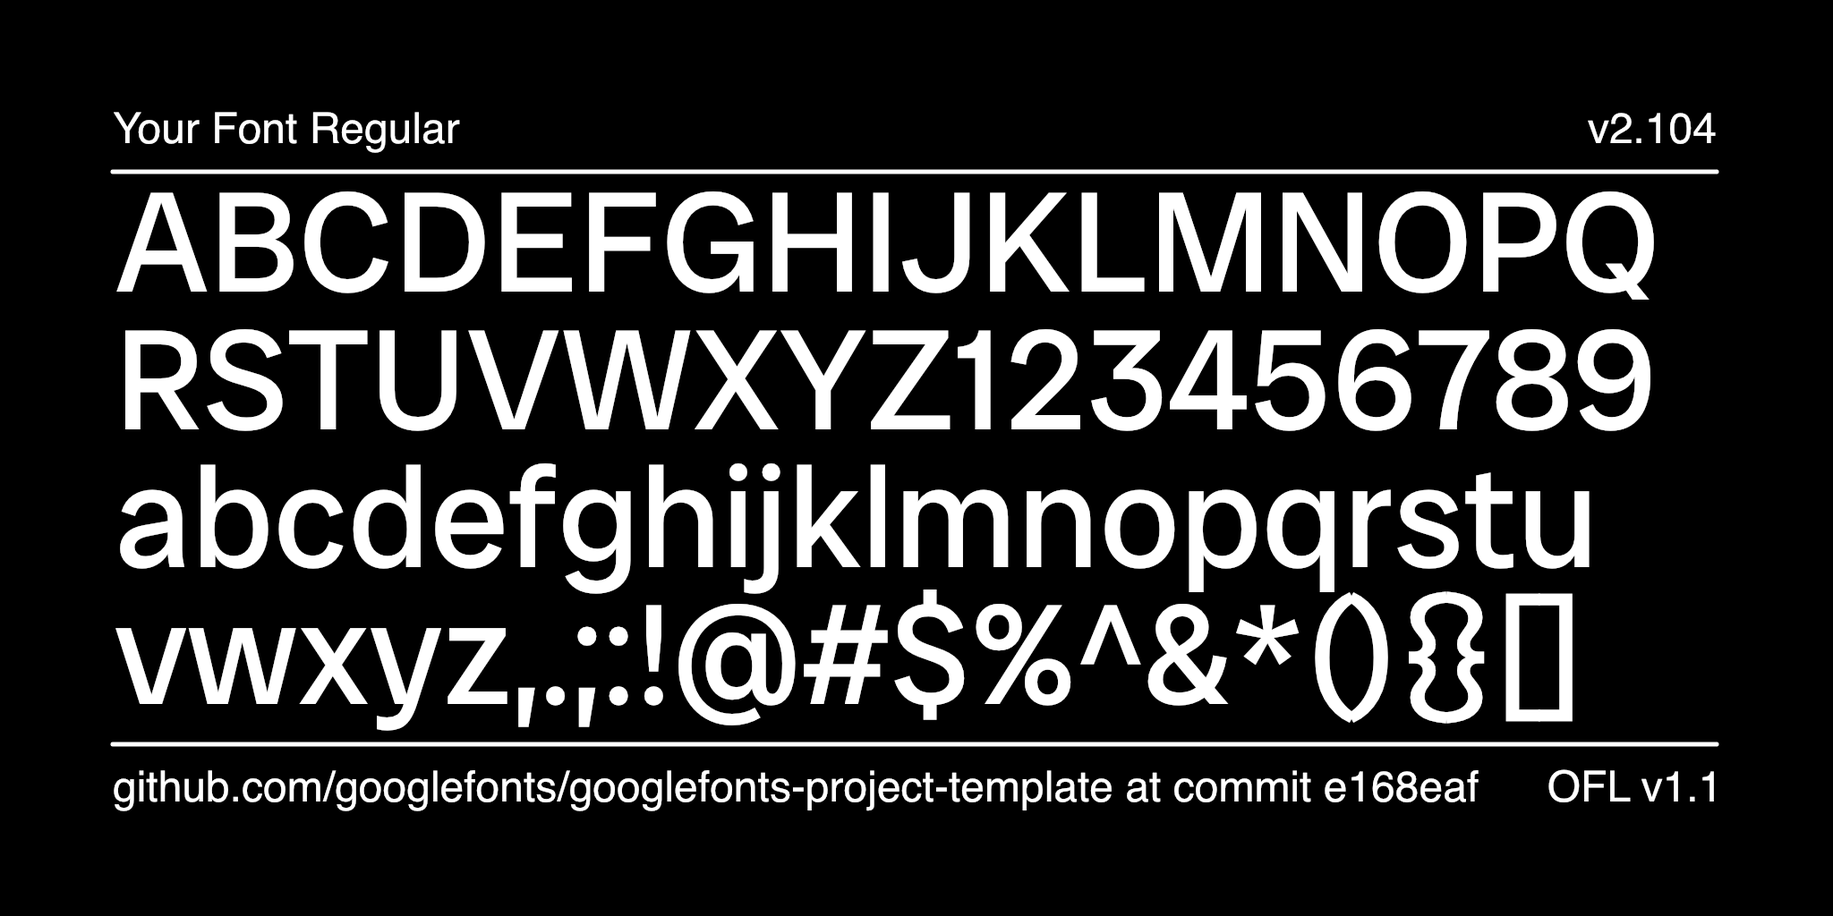
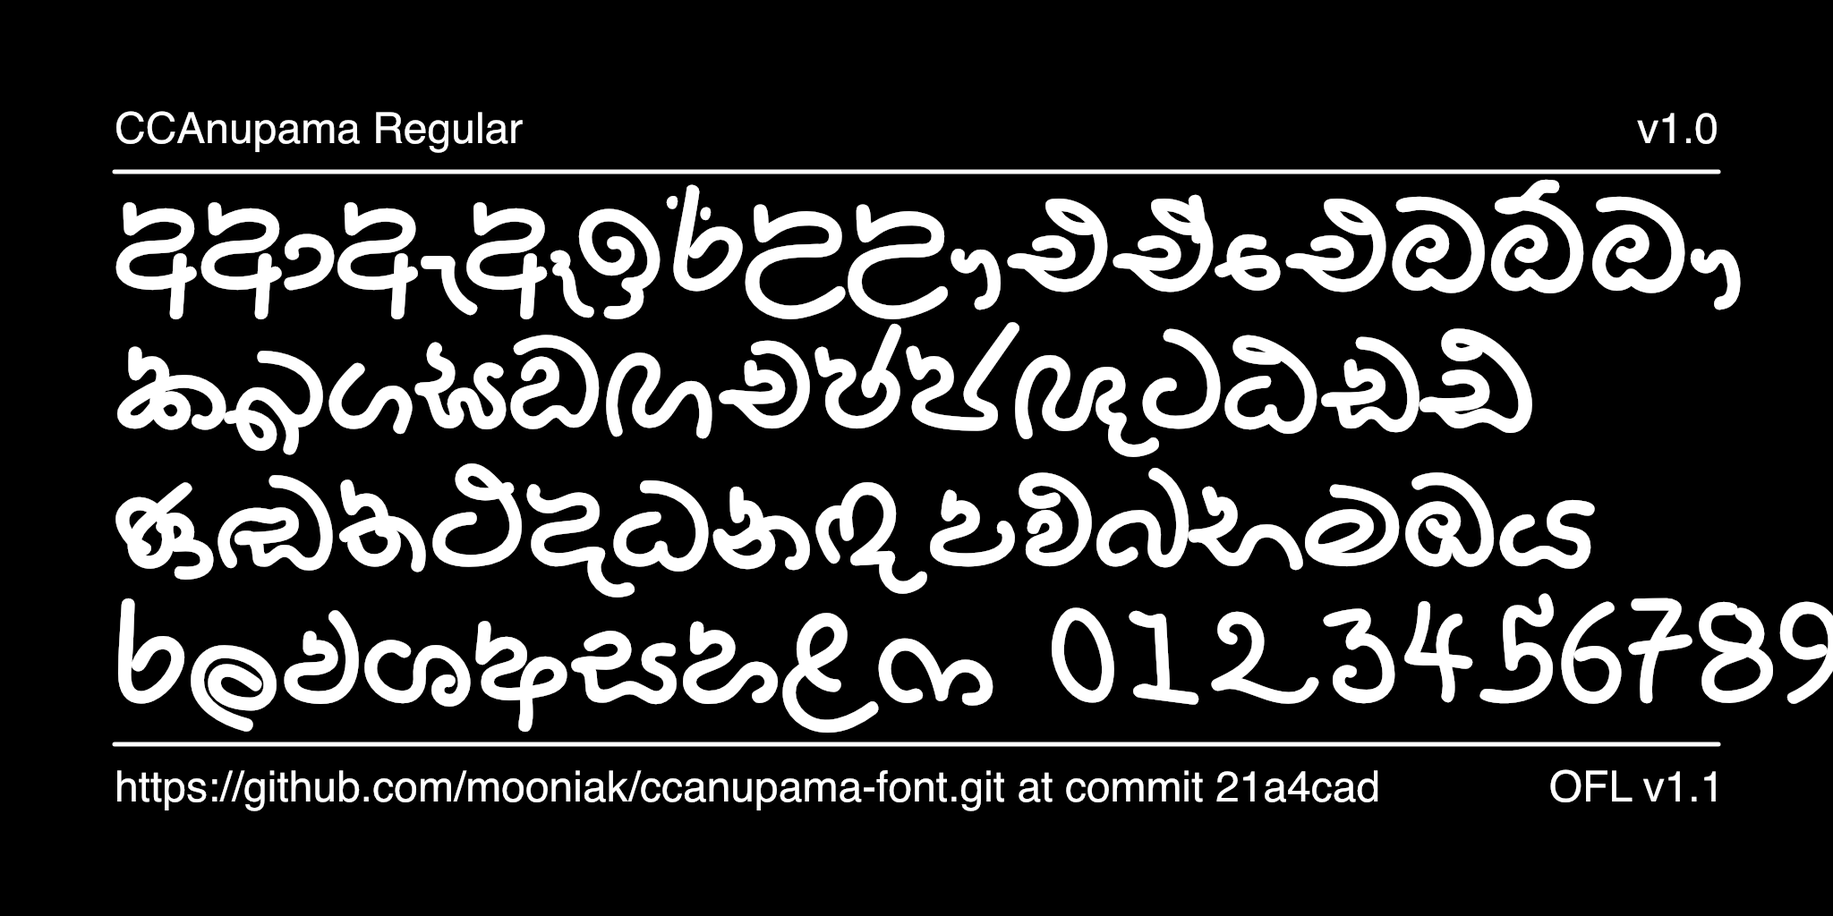
README, credits, article and specimens
README with badges, the ASCII-to-Unicode port notes, font data, coverage and features read off the built font; ARTICLE, AUTHORS, CONTRIBUTORS, OFL header (design year); specimen images rendered from a local --channel release build.

diff --git a/documentation/ARTICLE.en_us.html b/documentation/ARTICLE.en_us.html
@@ -1,12 +1,17 @@
 <p>
-    Please add a text describing the font here, 100 chracters or more, but no more than 500 words.
-    See https://googlefonts.github.io/gf-guide/article.html for further reference.
-    Please make sure that HTML characters are properly encoded. ('&' becomes &amp; etc.)
-    If unsure, use https://www.freeformatter.com/html-escape.html for formatting. (Use "Escape HTML").
+    CCAnupama is a rounded, monoline, handwritten Sinhala display typeface by Damith Welikala (Ceylon Calligraphy), made in 2020–2021.
+    Its thick, even pen line and loose, friendly letters suit posters, packaging, signage and titles.
 </p>
 <p>
-    Could be several paragraphs, also.
+    The font was first made in the FM Abhaya ASCII layout, the encoding most Sinhala fonts used
+    before Unicode: Sinhala letters were drawn on Latin keys, so text only looked like Sinhala in
+    that one font. In 2026 Mooniak ported it to Unicode. Every glyph now sits on its Sinhala
+    code point or is reached through OpenType rules, the vowel signs that were typed as separate
+    keys are composed, and the signs are positioned exactly where the original drew them.
 </p>
 <p>
-    To contribute, see <a href="https://github.com/youruseraccount/yourrepository">github.com/youruseraccount/yourrepository</a>.
+    The font covers the Sinhala letters in common use with their vowel signs, the repaya, rakaransaya and yansaya, ක්&zwj;ෂ and ද්&zwj;ර, a set of consonant + vowel-sign ligatures, plus digits and basic punctuation, in a single Regular weight.
+</p>
+<p>
+    To contribute, see <a href="https://github.com/mooniak/ccanupama-font">github.com/mooniak/ccanupama-font</a>.
 </p>

diff --git a/documentation/image2.py b/documentation/image2.py
@@ -1,7 +1,7 @@
 # This script is meant to be run from the root level
 # of your font's git repository. For example, from a Unix terminal:
-# $ git clone my-font
-# $ cd my-font
+# $ git clone https://github.com/mooniak/ccanupama-font.git
+# $ cd ccanupama-font
 # $ python3 documentation/image1.py --output documentation/image1.png
 
 # Import moduels from external python packages: https://pypi.org/
@@ -13,18 +13,19 @@ from fontTools.misc.fixedTools import floatToFixedToStr
 import subprocess
 import sys
 import argparse
+import glob
 
 # Constants, these are the main "settings" for the image
 WIDTH, HEIGHT, MARGIN, FRAMES = 2048, 1024, 128, 1
-FONT_PATH = "fonts/variable/MyFont[wght].ttf"
+FONT_PATH = (sorted(glob.glob("fonts/ttf/*.ttf")) or sorted(glob.glob("fonts/variable/*.ttf")))[0]
 FONT_LICENSE = "OFL v1.1"
 AUXILIARY_FONT = "Helvetica"
 AUXILIARY_FONT_SIZE = 48
 
-LINE_ONE = "ABCDEFGHIJKLMNOPQ"
-LINE_TWO = "RSTUVWXYZ123456789"
-LINE_THREE = "abcdefghijklmnopqrstu"
-LINE_FOUR = "vwxyz,.;:!@#$%^&*(){}[]"
+LINE_ONE = "අආඇඈඉඊඋඌඑඒඓඔඕඖ"
+LINE_TWO = "කඛගඝඞඟචඡජඥටඨඩඪ"
+LINE_THREE = "ණඬතථදධනඳපඵබභමඹය"
+LINE_FOUR = "රලවශෂසහළෆ 0123456789"
 BIG_TEXT_FONT_SIZE = 160
 BIG_TEXT_SIDE_MARGIN = MARGIN * 1
 BIG_TEXT_BOTTOM_MARGIN = MARGIN * 5.45

diff --git a/documentation/image1.py b/documentation/image1.py
@@ -1,7 +1,7 @@
 # This script is meant to be run from the root level
 # of your font's git repository. For example, from a Unix terminal:
-# $ git clone my-font
-# $ cd my-font
+# $ git clone https://github.com/mooniak/ccanupama-font.git
+# $ cd ccanupama-font
 # $ python3 documentation/image1.py --output documentation/image1.png
 
 # Import moduels from external python packages: https://pypi.org/
@@ -13,18 +13,19 @@ from fontTools.misc.fixedTools import floatToFixedToStr
 import subprocess
 import sys
 import argparse
+import glob
 
 # Constants, these are the main "settings" for the image
 WIDTH, HEIGHT, MARGIN, FRAMES = 2048, 1024, 128, 1
-FONT_PATH = "fonts/variable/MyFont[wght].ttf"
+FONT_PATH = (sorted(glob.glob("fonts/ttf/*.ttf")) or sorted(glob.glob("fonts/variable/*.ttf")))[0]
 FONT_LICENSE = "OFL v1.1"
 AUXILIARY_FONT = "Helvetica"
 AUXILIARY_FONT_SIZE = 48
 
-BIG_TEXT = "AaBb"
-BIG_TEXT_FONT_SIZE = 730
+BIG_TEXT = "අනුපමා"
+BIG_TEXT_FONT_SIZE = 540
 BIG_TEXT_SIDE_MARGIN = MARGIN * 1
-BIG_TEXT_BOTTOM_MARGIN = MARGIN * 2
+BIG_TEXT_BOTTOM_MARGIN = MARGIN * 2.5
 
 GRID_VIEW = False # Toggle this for a grid overlay
 

diff --git a/README.md b/README.md
@@ -1,102 +1,203 @@
-## Setting up your font
+CCAnupama
+=========
 
-### New repositories
+[![Build][badge-build]][link-build]
+[![Fontspector QA][badge-qa]][link-qa]
+[![Release][badge-release]][link-release]
+[![License: OFL 1.1][badge-license]][link-license]
 
-1. Hit the green button above ("Use this template") to create your own repository.
+[badge-build]: https://github.com/mooniak/ccanupama-font/actions/workflows/build.yaml/badge.svg?branch=dev
+[badge-qa]: https://img.shields.io/badge/dynamic/json?url=https%3A%2F%2Fsrc.mooniak.com%2Fccanupama-font%2Fbuild.json&query=%24.qa.pass_rate&suffix=%25&label=fontspector%20QA%20(dev%20build)&color=informational
+[badge-release]: https://img.shields.io/github/v/release/mooniak/ccanupama-font?label=release
+[badge-license]: https://img.shields.io/badge/license-OFL--1.1-green
+[link-build]: https://github.com/mooniak/ccanupama-font/actions/workflows/build.yaml
+[link-qa]: https://src.mooniak.com/ccanupama-font/reports/fontspector/fontspector-report.html
+[link-release]: https://github.com/mooniak/ccanupama-font/releases
+[link-license]: OFL.txt
 
-2. Clone the repository, and replace the font sources in the `sources` directory with your own font sources. These sources may be either in Glyphs format or UFO/Designspace formats.\
-   \
-   Unlike many open source distributors, Google Fonts is **curated**. Fonts shipped to the platform have to match the [Google Fonts Specifications](https://github.com/googlefonts/gf-docs/tree/main/Spec). Please read them carefully.\
-   \
-   _(The template ships a tiny generic placeholder — "My Font", a 2-master Weight variable font with a handful of blank-slate glyphs (`.notdef`, space, H, I, l, O) as `sources/MyFont.designspace` + UFOs. It exists only so the build pipeline works out of the box; replace it with your own sources.)_
+CCAnupama is a rounded, monoline, handwritten Sinhala display typeface by Damith Welikala (Ceylon Calligraphy), made in 2020–2021.
+Its thick, even pen line and loose, friendly letters suit posters, packaging, signage and titles. It is published by [Mooniak](https://mooniak.com/) as a free font under the SIL Open
+Font License, in a single Regular weight.
 
-3. Then reference the sources in the file `sources/config.yaml`, as well as making any other changes you would like to make based on the instructions in the [Google Fonts Builder documentation](https://github.com/googlefonts/gftools/blob/main/Lib/gftools/builder/__init__.py).
+![CCAnupama specimen](documentation/image1.png)
+![CCAnupama character set](documentation/image2.png)
 
-4. Add yourself to the `AUTHORS.txt` and `CONTRIBUTORS.txt` files.
+## From an ASCII font to Unicode
 
-5. Fill out `documentation/ARTICLE.en_us.html` with a description of your font.
+CCAnupama was first made in the **FM Abhaya ASCII layout**, the encoding most Sinhala fonts used
+before Unicode. Sinhala letters were drawn on Latin keys (`l` was ක, `s` the is-pilla drawn to
+overprint the letter before it, `f` the kombuva typed *before* the letter, `á` a precomposed ටි).
+Text typed that way only reads as Sinhala in that one font. Search, copy-paste, spell-checking
+and screen readers all see Latin gibberish.
 
-6. Rewrite this Readme file according to the recommendations in the [Google Fonts Guide](https://googlefonts.github.io/gf-guide/readmefile.html).
+On 26 November 2026 the source was ported to Unicode with Mooniak's
+[`ascii_to_unicode.py`](https://github.com/mooniak/mooniak-font-tools/tree/main/tools/font-migration):
 
-7. Add and commit these files to git.
+- every glyph got its Sinhala code point or a [LankaGlyphset](https://github.com/mooniak/lanka-glyphsets)
+  name reached by OpenType rules (the precomposed ටි ඩී ද්ර … are ligatures now);
+- what FM typed as several keys (ආ = `wd`, ෛ = `ff`, රු = `re` …) is composed from the same drawings;
+- the overprinting signs have zero width and mark anchors that put them exactly where the
+  original drew them; the kombuva is reordered by the shaper, not typed first.
 
-8. **At the command line, run `make customize` to ensure that all the paths and URLs in your project are correct**. This will also push your changes to GitHub.
+Every decision is in [`documentation/ascii-unicode-map.tsv`](documentation/ascii-unicode-map.tsv).
+Where this font differs from the standard FM layout, it is in
+[`documentation/ascii-overrides.tsv`](documentation/ascii-overrides.tsv): `` ` `` is a second ඟ and `C` a second ක්ෂ (in FM these are the nasal prefix and the touching half ක්); `F` `J` `\` `]` `_` `¤` `©` `«` `¬` `¶` `½` are drawings the table cannot name (whole conjuncts and letter shapes, a zigzag ornament) and sit on private-use U+E000–E00A until the designer decides.
+The port was checked by rendering 1227 texts (every glyph slot, 937 syllables, 124 words of real FM text) in the old ASCII font and, as Unicode, in the new one: 1226 came out the same. The other, ඡේ, is expected: the new text uses the designer's precomposed ඡ් glyph inside ේ.
 
-9. **Set up your GitHub pages site**: go to your repository's Settings > Pages and ensure that the Build and deployment "Source" drop-down is set to "GitHub Actions". (Any preexisting Actions jobs can be re-run to publish now, or the deployment triggered also manually from the Actions tab. Subsequent commits will publish the proofs and QA results automatically.)
+**Old documents typed in the ASCII version** can be converted to Unicode text with
+[Pandukabhaya](https://github.com/akuruAI/Pandukabhaya) (`pandukabhaya fm_abhaya -i old.txt -o new.txt`).
 
-10. If GitHub Actions has successfully built the family, you will find the font binaries in the Actions tab. The official GitHub Actions documentation provides further [information](https://docs.github.com/en/actions/managing-workflow-runs/downloading-workflow-artifacts).
+## Get the font
 
-### Updating a repository
+- **Download:** the [Releases](https://github.com/mooniak/ccanupama-font/releases) page. A
+  pre-release named `canary` is rebuilt from every push to `dev`. It is the latest development
+  work and may be broken, so don't use it in production. Its family name ends in `CANARY`, so it
+  can be installed next to a release.
+- **Proofs and QA:** the latest development build, with type proofs and the full Fontspector
+  report, is at [src.mooniak.com/ccanupama-font](https://src.mooniak.com/ccanupama-font/).
+- **Build it yourself:** see [Building the fonts from source](#building-the-fonts-from-source).
 
-1. To update your font repository to bring in the latest best-practices from the Google Fonts Project Template, run `make update-project-template` from the command line. This requires the `node` Javascript engine to be installed; if you don't have that already, [follow these instructions](https://nodejs.org/en/download/package-manager#macos) to install on your platform.
+## Font data
 
-2. To update the Python build chain which builds your fonts, run `make update` and `git add`/`git commit` the new `requirements.txt`.
+| | |
+|---|---|
+| **Version** | 1.000 |
+| **Script** | Sinhala (no Latin letters; digits and basic punctuation only) |
+| **Styles** | Regular |
+| **Formats** | TTF, OTF and WOFF2 (`CCAnupama-Regular.*`) |
+| **Glyphs** | 187 (114 mapped to Unicode code points; the rest are ligatures and alternates used by OpenType features) |
+| **Units per em** | 1000 |
+| **Vertical metrics** | ascent 900, descent −300, line gap 0 (1.2 em; `hhea`, typo and win; `USE_TYPO_METRICS` on) |
+| **File size** | about 85 KB (TTF), 30 KB (OTF), 40 KB (WOFF2) |
+| **Source format** | [Glyphs](https://glyphsapp.com/) 3 package (`sources/CCAnupama.glyphspackage`) |
+| **License** | [SIL Open Font License 1.1](OFL.txt) |
 
-## More things to do
+### Character coverage
 
-- `CustomFilter_GF_Latin_All.plist` in `sources` is practical if you use GlyphsApp, you can remove it otherwise. Placed in the same directory as the your `.glyphs` file, it will allow Glyphs to display a filter list for all GF Latin glyphsets in app. To make sure your font supports the minimal set required by Google Fonts, look at the `GF_Latin_Core` filter list. Find other glyphsets and list formats for different software in [GF Glyphsets repository](https://github.com/googlefonts/glyphsets/tree/main/GF_glyphsets).
+| Range | Encoded |
+|---|---|
+| Sinhala (U+0D80–0DFF) | 74 of 91. Not drawn: candrabindu U+0D81, ඏ ඐ U+0D8F–0D90, ඣ U+0DA3, ඦ U+0DA6, ෳ U+0DF3, kunddaliya U+0DF4, Lith digits U+0DE6–0DEF |
+| Basic Latin | space, digits 0–9 and `! ( ) * , - . / : ; = ?` |
+| Other | ‘ ’, no-break space, ZWNJ, ZWJ, dotted circle (U+25CC); eleven drawings the FM table could not name on private-use U+E000–E00A |
 
-- Once you are happy with your font, add promotional assets in the documentation directory. Make it different from the pic you use in this README. You can get inspired by existing @googlefonts posts as: https://x.com/googlefonts/status/1415562928657416192.
+### OpenType features
 
-- Google Fonts uses GitHub Releases to manage font families. If you feel your font project has hit a milestone, you must create a new release for it. In order to do this, go to the releases page and hit the "Draft a new release" button. You must provide a tag number and title which can only be a decimal number e.g. `0.100`, `1.000` etc. For the body text, mention what has changed since the last release. Once you are done, hit the "Publish release" button. Here is an example which fulfills the requirements, https://github.com/m4rc1e/test-ufr-family/releases/tag/2.019. For more info regarding GitHub release, please see the official GitHub Release [documentation](https://docs.github.com/en/repositories/releasing-projects-on-github/managing-releases-in-a-repository). **Please note that GitHub Actions must be able to build the fonts before you can make a release. Once you have made a release, the fonts and tests assets will be attached to the release automatically. This may take a while since the fonts and tests will be built from scratch so please be patient.**
+The features are generated by `ascii_to_unicode.py` from the glyphs the font has.
 
----
+| Layout table | Features |
+|---|---|
+| `GSUB` | `akhn` (ක්ෂ) `vatu` (rakaransaya, yansaya, ද්ර) `pstf` (two-part vowels) `abvs` `blws` `psts` (consonant + sign ligatures, the hook-form ු/ූ after ක ග ත භ ශ, රු රූ) `ss01` (below-base දා) |
+| `GPOS` | `abvm` `mark` (ි ී ු ූ ් placed where the original drew them) |
 
-# My Font
+Most conjuncts fall back to a letter with a visible al-lakuna. Open questions for the designer are tracked in Mooniak's publishing checklist (`mnik check ccanupama`).
 
-[![][Fontspector]](https://mooniak.github.io/mooniak-font-project-template.git/fontspector/fontspector-report.html)
-[![][OpenType]](https://mooniak.github.io/mooniak-font-project-template.git/fontspector/fontspector-report.html)
-[![][Universal]](https://mooniak.github.io/mooniak-font-project-template.git/fontspector/fontspector-report.html)
-[![][Google Fonts]](https://mooniak.github.io/mooniak-font-project-template.git/fontspector/fontspector-report.html)
-[![][Glyphset]](https://mooniak.github.io/mooniak-font-project-template.git/fontspector/fontspector-report.html)
+## Repository structure
 
-[Fontspector]: https://img.shields.io/endpoint?url=https%3A%2F%2Fmooniak.github.io%2Fmooniak-font-project-template.git%2Fbadges%2FFontspectorQA.json
-[OpenType]: https://img.shields.io/endpoint?url=https%3A%2F%2Fmooniak.github.io%2Fmooniak-font-project-template.git%2Fbadges%2FOpentypeSpecificationChecks.json
-[Universal]: https://img.shields.io/endpoint?url=https%3A%2F%2Fmooniak.github.io%2Fmooniak-font-project-template.git%2Fbadges%2FUniversalProfileChecks.json
-[Google Fonts]: https://img.shields.io/endpoint?url=https%3A%2F%2Fmooniak.github.io%2Fmooniak-font-project-template.git%2Fbadges%2FFontFileChecks.json
-[Outline Correctness]: https://img.shields.io/endpoint?url=https%3A%2F%2Fmooniak.github.io%2Fmooniak-font-project-template.git%2Fbadges%2FOutlineCorrectnessChecks.json
-[Glyphset]: https://img.shields.io/endpoint?url=https%3A%2F%2Fmooniak.github.io%2Fmooniak-font-project-template.git%2Fbadges%2FGlyphsetChecks.json
+| Path | What it is |
+|---|---|
+| `sources/CCAnupama.glyphspackage` | The font source: glyphs, anchors and OpenType feature code, as a Glyphs 3 package |
+| `sources/config.yaml` | Build configuration read by [gftools](https://github.com/googlefonts/gftools) |
+| `fontpackage.json` | Mooniak catalogue metadata (name, designer, tier, channels) |
+| `Makefile` | Build, test and proof targets (see below) |
+| `requirements.in`, `requirements.txt` | Python dependencies: the top-level list, and the pinned set used for builds |
+| `fonts/`, `out/`, `_site/` | Build output, QA/proof reports and the proof site (created by `make`; not committed) |
+| `documentation/` | Specimen images and their DrawBot scripts, the font description (`ARTICLE.en_us.html`), and the ASCII → Unicode port records (`ascii-unicode-map.tsv`, `ascii-overrides.tsv`) |
+| `scripts/` | Helper scripts used by the Makefile and CI (from the Mooniak project template) |
+| `OFL.txt`, `AUTHORS.txt`, `CONTRIBUTORS.txt` | License and credits |
 
-Description of your font goes here. We recommend to start with a very short presentation line (the kind you would use on twitter to present your project for example), and then add as much details as necesary :-) Origin of the project, idea of usage, concept of creation… but also number of masters, axes, character sets, etc.
+## Building the fonts from source
 
-Don't hesitate to create images!
+Building needs only free, open-source tools. You need Glyphs only to edit the source, not to build.
 
-![Sample Image](documentation/image1.png)
-![Sample Image](documentation/image2.png)
+### Requirements
 
-## About
+- **macOS or Linux** (on Windows, use [WSL](https://learn.microsoft.com/windows/wsl/)).
+- **Python 3.12** with `venv` and `pip`, the version CI uses. The dependencies in
+  `requirements.txt` are pinned, and other Python versions may fail to install them.
+- **Make** and **git**, and network access for the first build.
 
-Description of you and/or organisation goes here.
+### Build
 
-## Building
+```sh
+git clone https://github.com/mooniak/ccanupama-font.git
+cd ccanupama-font
+python3.12 -m venv venv
+make build
+```
 
-Fonts are built automatically by GitHub Actions — take a look in the "Actions" tab for the latest build.
+`make build` installs the pinned dependencies into `venv/` (first run only), then runs
+[`gftools builder`](https://github.com/googlefonts/gftools) on `sources/config.yaml`. Output:
 
-If you want to build fonts manually on your own computer:
+```
+fonts/ttf/CCAnupama-Regular.ttf
+fonts/otf/CCAnupama-Regular.otf
+fonts/webfonts/CCAnupama-Regular.woff2
+```
 
-- `make build` will produce font files.
-- `make test` will run [Fontspector](https://fonttools.github.io/fontspector/)'s quality assurance tests.
-- `make proof` will generate HTML proof files.
-- `make features` regenerates the Sinhala/Tamil OpenType features with [lankafea](https://github.com/mooniak/sinhala-font-tools/tree/gh-pages/tools/feature-generator), for fonts that keep their settings in `sources/lankafea.yaml`. Commit the result; the build doesn't need lankafea.
+Each rebuild deletes and recreates `fonts/`. `make` doesn't notice edits inside the package
+folder, so after editing the source run `rm build.stamp && make build`.
 
-The proof files and QA tests are also available automatically via GitHub Actions — look at https://mooniak.github.io/mooniak-font-project-template.git.
+### Quality checks and proofs
+
+These need two extra tools, installed with
+[`cargo binstall`](https://github.com/cargo-bins/cargo-binstall):
+
+```sh
+cargo binstall fontspector     # for `make test`
+cargo binstall diffenator3     # for `make proof`
+```
+
+| Command | What it does |
+|---|---|
+| `make test` | Runs [Fontspector](https://github.com/fonttools/fontspector) with the Google Fonts profile and writes reports to `out/fontspector/`. It doesn't stop on failures; read the report. |
+| `make proof` | Runs `diff3proof` and writes an HTML proof to `out/proof/`. |
+| `make pages` | Builds the stage-gated proof site into `_site/` (needs `make manifest` first). |
+| `make images` | Re-renders `documentation/image1.png` and `image2.png`. |
+| `make clean` | Deletes `venv/`. |
+
+Known Fontspector failures, shared by Mooniak's other Sinhala-only fonts: the Google Fonts Latin
+coverage, language-shaping and "render own name" checks (the font has no Latin letters), and the
+GF repository-layout check.
+
+## Releases and versioning
+
+Versions follow [OpenFV](https://github.com/openfv/openfv) (`MAJOR.MINOR`, three-digit minor).
+Work happens on `dev`; `main` only moves when a release is cut.
+
+| You want | Do this | CI publishes |
+|---|---|---|
+| the latest build | push to `dev` | the rolling `canary` pre-release and the proof site |
+| a fixed preview for testers | tag a `dev` commit `vX.YYY-dev.N` | a GitHub pre-release |
+| a release | merge `dev` into `main` (no squash), tag `main` `vX.YYY` | a GitHub Release |
+
+Bump `versionMajor`/`versionMinor` in the source before tagging. The next release after the
+2021 version 1.000 should be **1.001** or later.
+
+## Contributing
+
+Bug reports and design feedback are welcome in the
+[issue tracker](https://github.com/mooniak/ccanupama-font/issues). Open pull requests against
+`dev`, edit `sources/CCAnupama.glyphspackage` with Glyphs 3, rebuild
+(`rm build.stamp && make build`) and run `make test`. Add yourself to `CONTRIBUTORS.txt`.
+
+## Credits
+
+- **Design:** Damith Welikala, Ceylon Calligraphy (2021)
+- **Unicode port, production and publishing:** [Mooniak](https://mooniak.com/) (2026)
+- **FM Abhaya mapping data:** [Pandukabhaya](https://github.com/akuruAI/Pandukabhaya) (MIT)
 
 ## Changelog
 
-When you update your font (new version or new release), please report all notable changes here, with a date.
-[Font Versioning](https://github.com/googlefonts/gf-docs/tree/main/Spec#font-versioning) is based on semver.
-Changelog example:
+**26 November 2026, version 1.000 (development)**
 
-**26 May 2021. Version 2.13**
+- Ported from the FM Abhaya ASCII layout to Unicode: LankaGlyphset names, Sinhala code points,
+  composed vowels and ligatures, generated OpenType features, mark anchors.
+- Moved to the Mooniak build pipeline: Glyphs 3 package, gftools builds with CI, proofs and QA.
+- Added no-break space, ZWJ/ZWNJ and dotted circle; Google Fonts vertical metrics; Mooniak copyright, designer, vendor ID and OFL licence in the font.
 
-- MAJOR Font turned to a variable font.
-- SIGNIFICANT New Stylistic sets added.
+**2021, version 1.000.** Damith Welikala's original, an FM-layout ASCII font made in FontForge.
 
 ## License
 
-This Font Software is licensed under the SIL Open Font License, Version 1.1.
-This license is available with a FAQ at https://openfontlicense.org
-
-## Repository Layout
-
-This font repository structure is inspired by [Unified Font Repository v0.3](https://github.com/unified-font-repository/Unified-Font-Repository), modified for the Google Fonts workflow.
+This Font Software is licensed under the SIL Open Font License, Version 1.1. This license is
+available with a FAQ at https://openfontlicense.org
